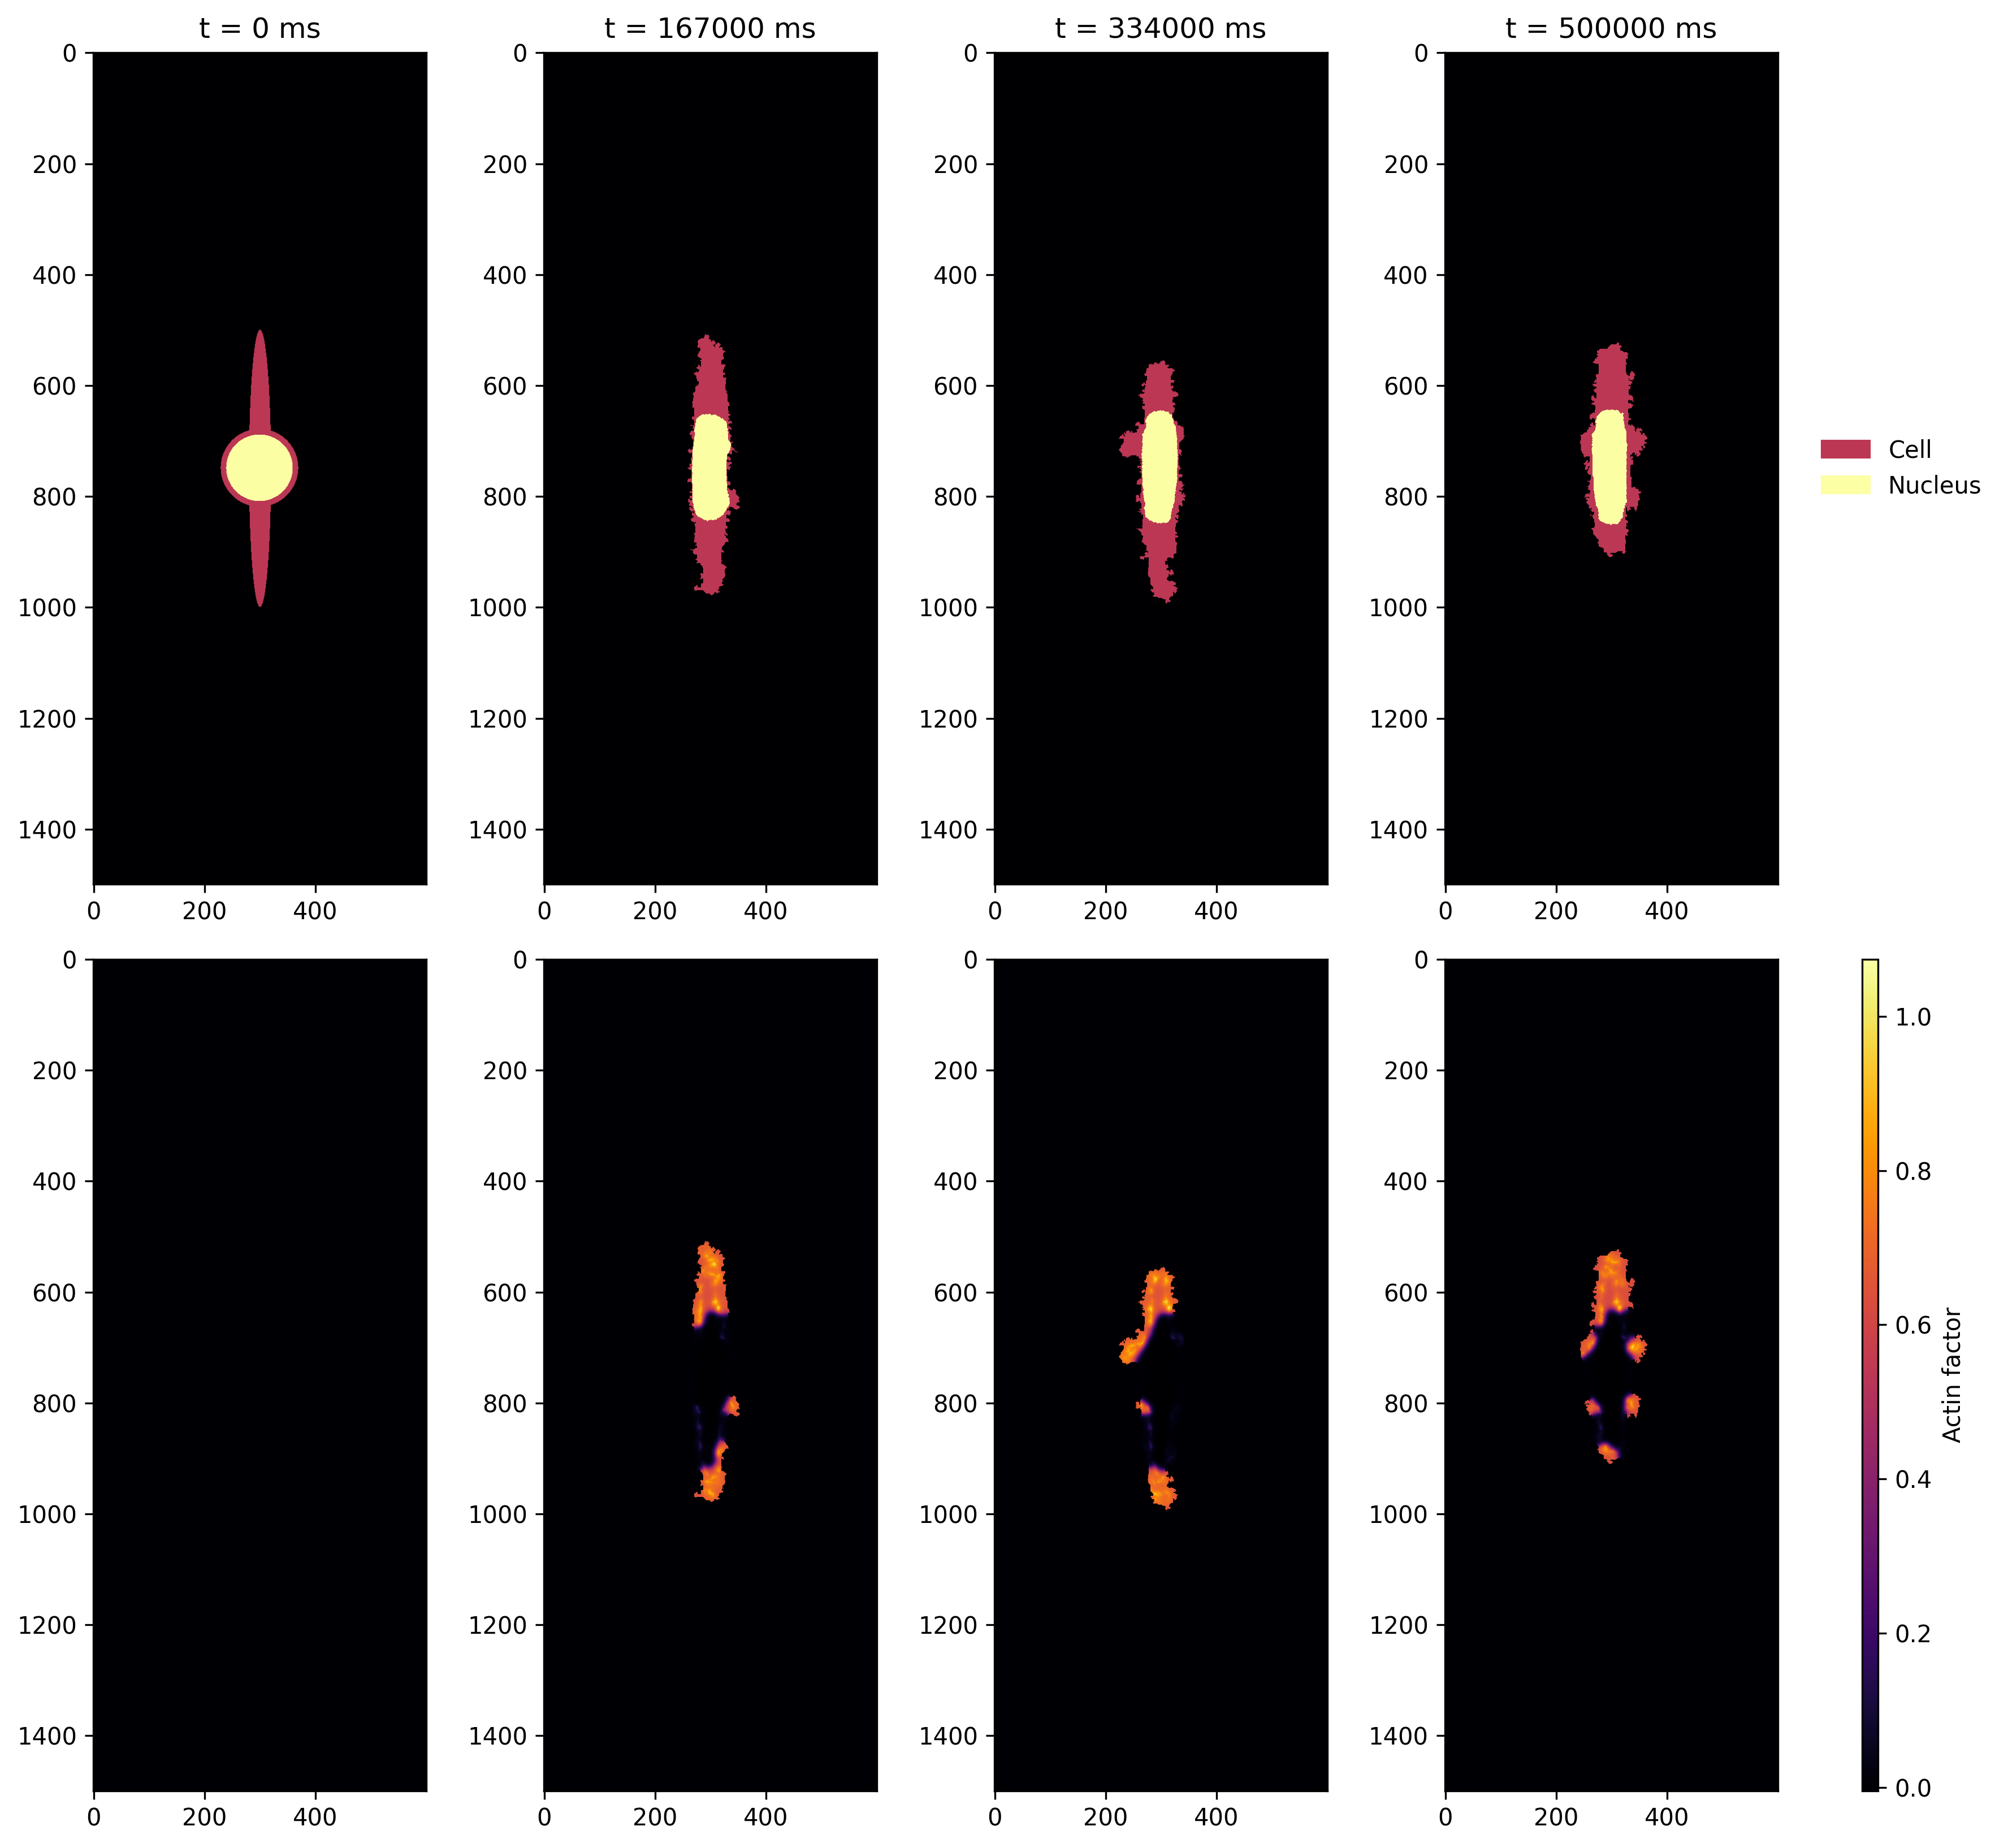
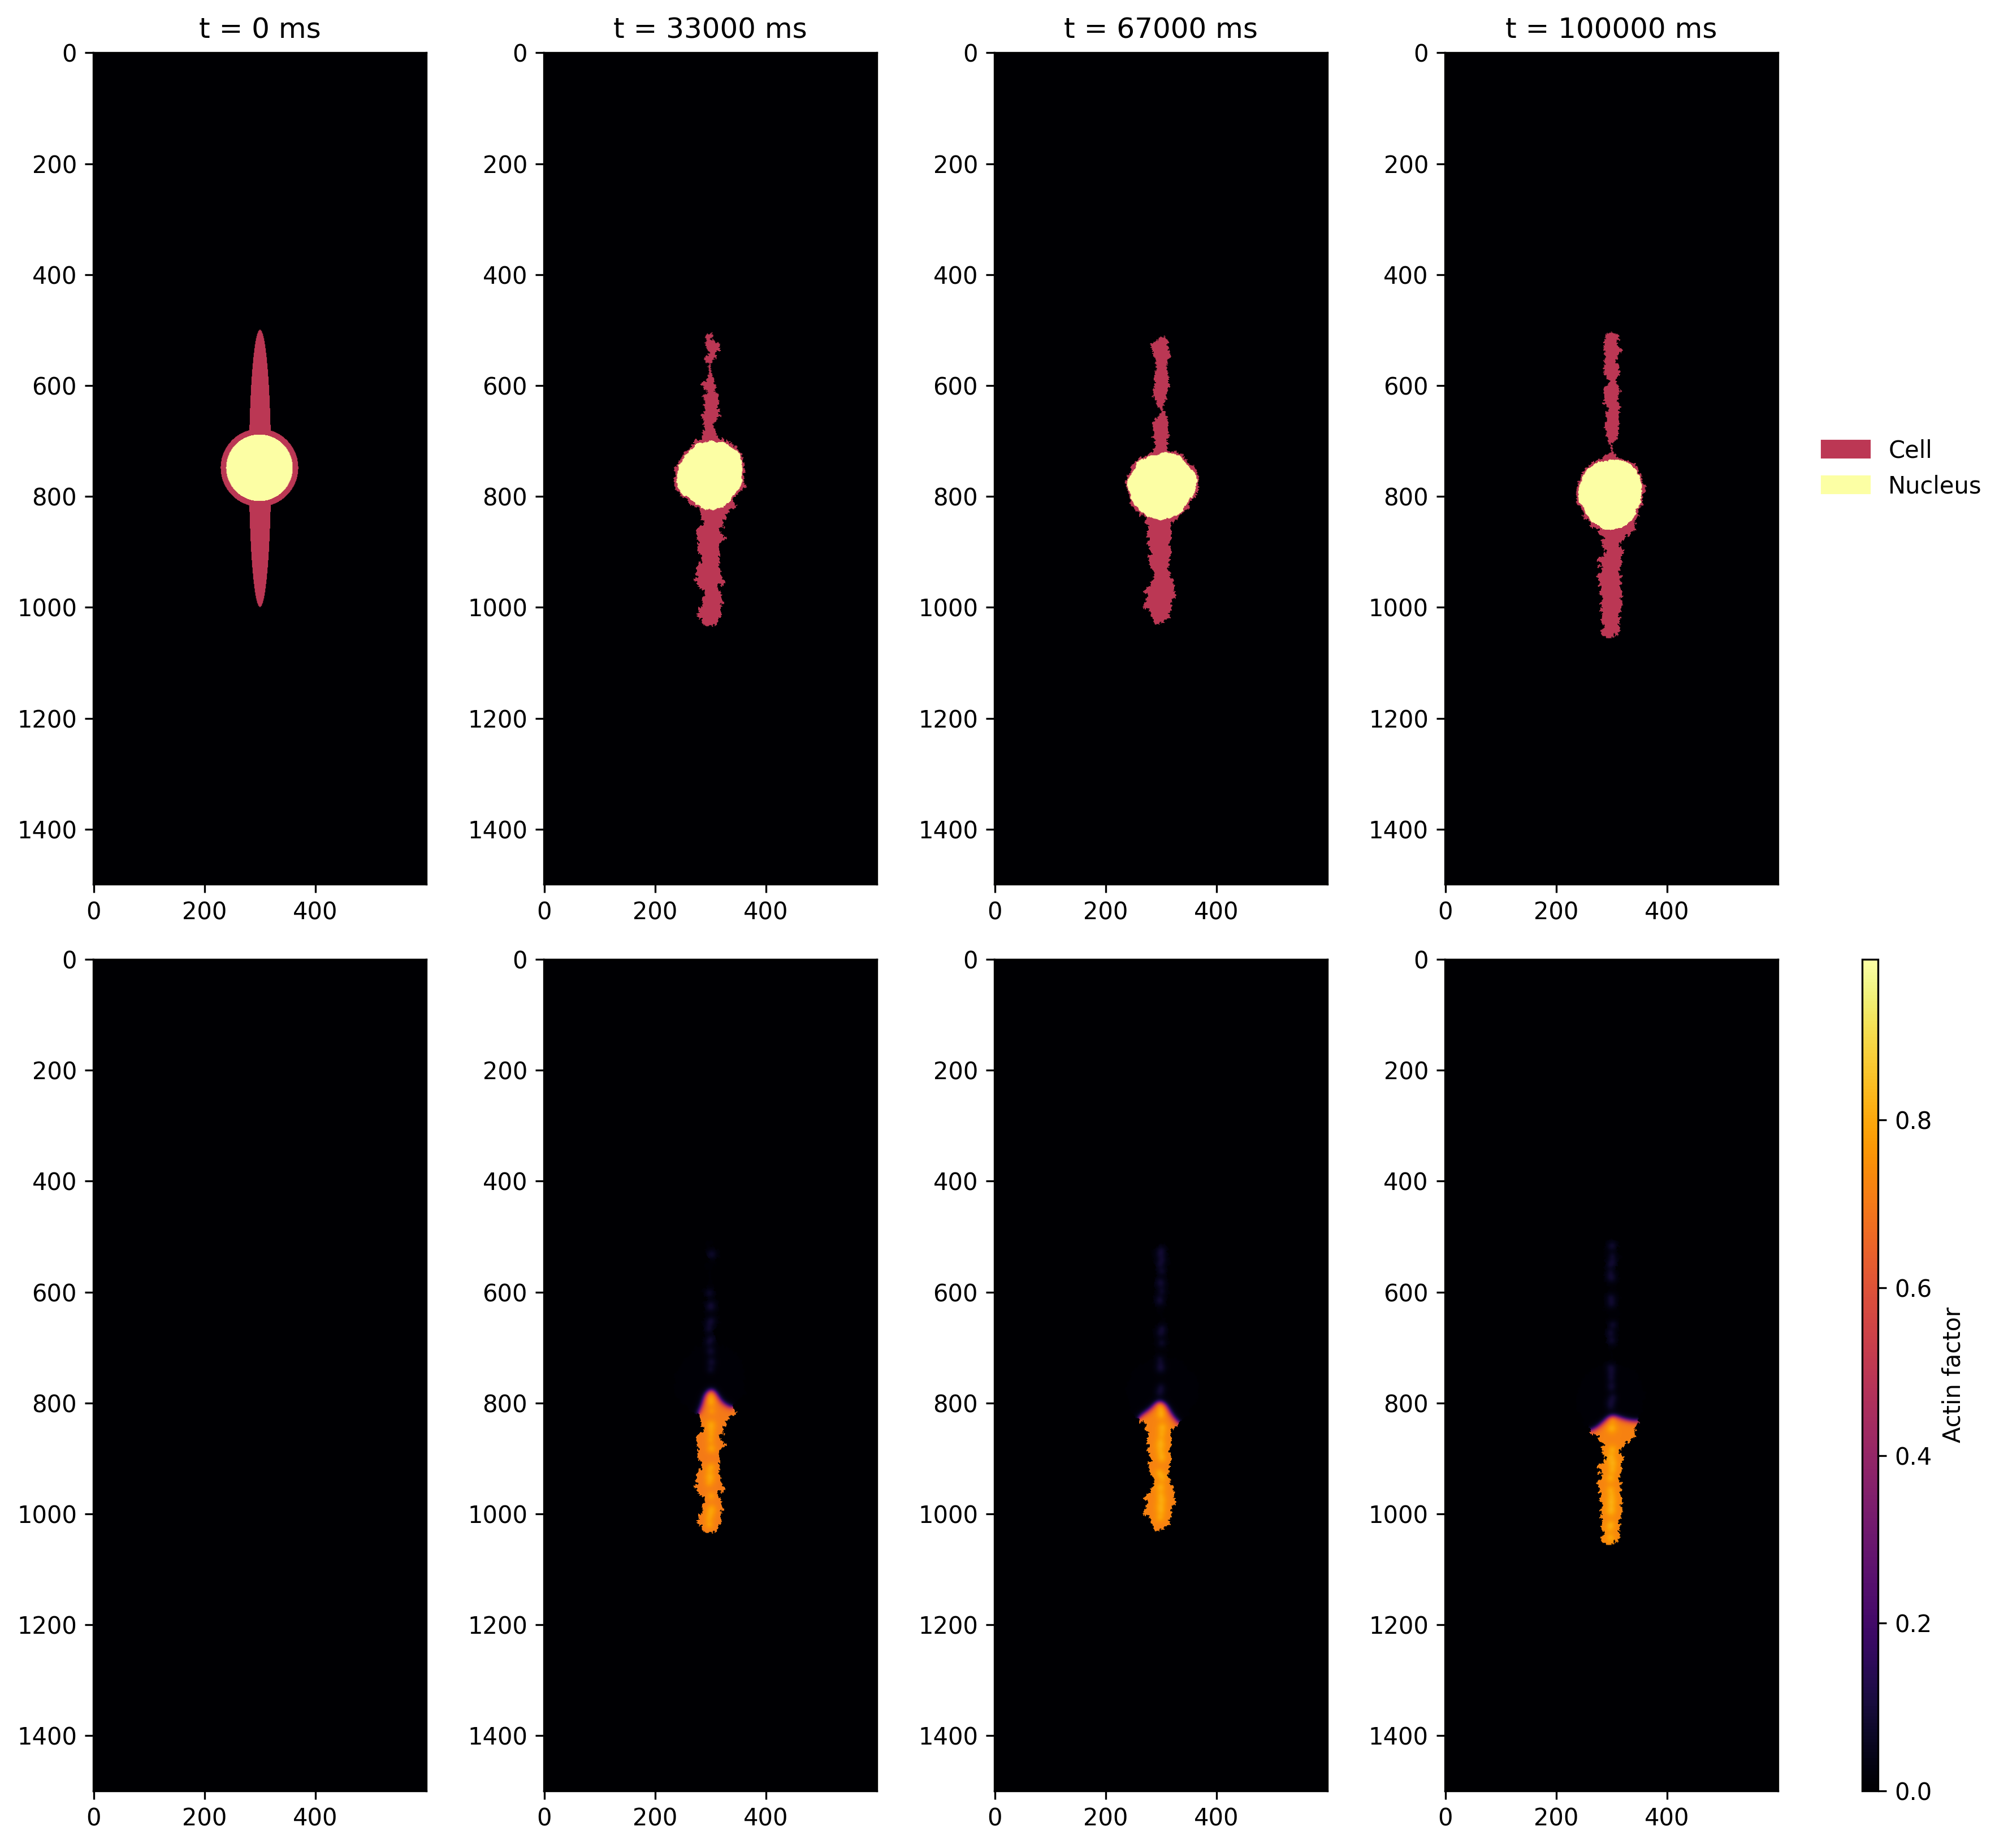
Fixed model protrusion, retraction, and nucleus issues, updated run

diff --git a/src/dynein_cell_model/dynein_cell_model.cpp b/src/dynein_cell_model/dynein_cell_model.cpp
@@ -6,7 +6,6 @@
 #include <deque>
 #include <fstream>
 #include <functional>
-#include <iostream>
 #include <map>
 #include <random>
 #include <stack>
@@ -18,7 +17,6 @@
 #include <highfive/H5DataSpace.hpp>
 #include <highfive/H5File.hpp>
 #include <highfive/H5PropertyList.hpp>
-#include <omp.h>
 #include <opencv2/core.hpp>
 #include <opencv2/imgcodecs.hpp>
 #include <utility>
@@ -34,8 +32,8 @@
 #ifdef LIB_DYNEIN_CELL_MODEL_DEBUG
 #include <test_utils/test_utils.hpp>
 
-static test_utils::DebugRand<double> drand;
-#define prob_dist(rng) drand()
+// static test_utils::DebugRand<double> drand;
+// #define prob_dist(rng) drand()
 
 inline constexpr bool DYNEIN_CELL_MODEL_DEBUG_CPP = true;
 #else
@@ -285,7 +283,7 @@ Mat_i matrix_from_mask(std::string filepath, cv::Vec3b color) {
     throw std::invalid_argument("Could not load the image at: " + filepath);
   }
 
-  Mat_i mat(image.rows, image.cols);
+  Mat_i mat = Mat_i::Zero(image.rows, image.cols);
 
   for (int c = 0; c < image.cols; c++) {
     for (int r = 0; r < image.rows; r++) {
@@ -497,6 +495,9 @@ CellModel::~CellModel() {
   finalize(*results_, next_index_, "AC");
   finalize(*results_, next_index_, "IC");
   finalize(*results_, next_index_, "adh");
+  finalize(*results_, next_index_, "env");
+  finalize(*results_, next_index_, "F");
+  finalize(*results_, next_index_, "k0_adh");
 }
 
 const CellModelConfig CellModel::get_config() {
@@ -641,6 +642,8 @@ void CellModel::save_state() {
   append_dataset(*results_, next_index_, "AC", AC_);
   append_dataset(*results_, next_index_, "IC", IC_);
   append_dataset(*results_, next_index_, "adh", adh_, true);
+  append_dataset(*results_, next_index_, "F", F_);
+  append_dataset(*results_, next_index_, "k0_adh", k0_adh_);
 }
 
 void CellModel::rearrange_adhesions(const bool bias, const bool rearrange_all) {
@@ -672,14 +675,16 @@ void CellModel::rearrange_adhesions(const bool bias, const bool rearrange_all) {
   std::vector<double> A_lin(frame_size); // linearized version of A within frame
   std::vector<std::pair<int, int>> flat_pos(frame_size);
   double A_sum = 0; // total sum of A in frame
-  for (int i = 0, r = frame_row_start_; r <= frame_row_end_; i++, r++) {
-    for (int j = 0, c = frame_col_start_; c <= frame_col_end_; j++, c++) {
-      if (env_.coeff(r, c) == 1 && cell_(r, c) == 1) {
-        // if is valid attachment point, it is a valid place for new adhesion
-        A_sum += A_(r, c);
+  if (bias) {
+    for (int i = 0, r = frame_row_start_; r <= frame_row_end_; i++, r++) {
+      for (int j = 0, c = frame_col_start_; c <= frame_col_end_; j++, c++) {
+        if (env_.coeff(r, c) == 1 && cell_(r, c) == 1) {
+          // if is valid attachment point, it is a valid place for new adhesion
+          A_sum += A_(r, c);
+        }
+        A_lin[i * cols + j] = A_sum;
+        flat_pos[i * cols + j] = {r, c};
       }
-      A_lin[i * cols + j] = A_sum;
-      flat_pos[i * cols + j] = {r, c};
     }
   }
 
@@ -1079,6 +1084,7 @@ void CellModel::retract_nuc_dep() {
 
 void CellModel::generate_dyn_field(const SpMat_i &cell_outline,
                                    const SpMat_i &nuc_outline, bool retract) {
+  dyn_f_.setZero();
   SpMat_i scaling{sim_rows_, sim_cols_};
 
   const int len = nuc_outline.nonZeros();
@@ -1113,7 +1119,7 @@ void CellModel::generate_dyn_field(const SpMat_i &cell_outline,
             continue;
           if (nuc_outline.coeff(i, j) == 1) {
             dyn_f_(i, j) += dist_f;
-            scaling.coeffRef(i, j)++;
+            scaling.coeffRef(i, j) += 1;
           }
         }
       }
@@ -1252,7 +1258,7 @@ void CellModel::retract() {
     auto &[r, c] = retract_coords[i];
 
     if (retract_conf_.count(encode_8(cell_, r, c)) ==
-        0) // not valid protrude configuration
+        0) // not valid retract configuration
       continue;
     if (nuc_(r, c) == 1) // can't retract nucleus
       continue;
@@ -1490,8 +1496,8 @@ void CellModel::correct_concentrations() {
   // Calculate amount of signal that needs to be distributed from all pixels
   const double A_dist = A_cor_sum_ / V_;
   const double I_dist = I_cor_sum_ / V_;
-  const double AC_dist = AC_cor_sum_ / (V_ - V0_nuc_);
-  const double IC_dist = IC_cor_sum_ / (V_ - V0_nuc_);
+  const double AC_dist = AC_cor_sum_ / (V_ - V_nuc_);
+  const double IC_dist = IC_cor_sum_ / (V_ - V_nuc_);
 
   // #pragma omp parallel for collapse(2)
   for (int j = frame_col_start_; j <= frame_col_end_; j++) {
@@ -1697,73 +1703,81 @@ void CellModel::update_dyn_nuc_field() {
 
 void CellModel::update_adhesion_field() {
   /**
-   * This function updates the adhesion field based on the positions of the
-   * adhesions. A Gaussian-smoothed adhesion field is first calculated for
-   * each of the adhesion points, and then the points for the rest of the
-   * pixels on the cell are calculated. The field is then normalized using IDW
-   * normalization method, which produces a distribution similar to the
-   * original code but runs faster. The values are then again normalized to be
-   * between 0 and 1 and inverted to act as a protrusion probability.
+   * Update adhesion field logic. Works by computing normalization variables at
+   * each adhesion, then applying a weighted Gaussian over every pixel from the
+   * adhesions. Then inverts and normalizes adh_f, and used to calculate k0_adh
+   * with IDW.
    */
 
+  // Precompute constants
   const double sigma_2 = adh_sigma_ * adh_sigma_;
   const double ampl = 1 / (2 * M_PI * sigma_2);
-  const double eps = 1e-10;
 
-  // Calculate for adhesions
+  // Position of adhesions as doubles
   Mat_d adh_pos_d = adh_pos_.cast<double>();
-  Vec_d norm_sq = adh_pos_d.colwise().squaredNorm();
-  Mat_d dot_prod = -2 * adh_pos_d.transpose() * adh_pos_d;
-  Mat_d dist2 = dot_prod;
-  dist2.colwise() += norm_sq;
-  dist2.rowwise() += norm_sq.transpose();
-  Mat_d f_ind = (-dist2.array() / (2.0 * sigma_2)).exp().matrix();
-  Arr_d adh_g = f_ind.rowwise().sum().array() * ampl;
 
-  // Calculate for non-adhesions
-  adh_f_.setZero();
-  // #pragma omp parallel for collapse(2)
+  // Precompute adh_g at adhesion positions for IDW calculation
+  Vec_d norm_sq_adh = adh_pos_d.colwise().squaredNorm();
+  Mat_d dist2_mat_adh =
+      ((-2 * adh_pos_d.transpose() * adh_pos_d).colwise() + norm_sq_adh)
+          .rowwise() +
+      norm_sq_adh.transpose();
+  Vec_d adh_g_at_adhesions =
+      ((-dist2_mat_adh.array() / (2.0 * sigma_2)).exp().rowwise().sum()) * ampl;
+
+  // Calculate adh_g at all frame pixels and find the maximum value for
+  // normalization
+  double max_adh_g = 0;
   for (int i = frame_row_start_; i <= frame_row_end_; i++) {
     for (int j = frame_col_start_; j <= frame_col_end_; j++) {
-      // Only need to calculate for pixels on outline or inner outline
-      // because those are the only pixels that can be protruded or retracted
-      if (outline_.coeff(i, j) == 0 && inner_outline_.coeff(i, j) == 0)
-        continue;
-      // Don't need to calculate for adhesions because values are fixed
       if (adh_.coeff(i, j) == 1) {
+        // At adhesion sites, set adh_g to max and k0_adh to k0
         k0_adh_(i, j) = k0_;
+        adh_f_(i, j) = 0; // adh_f = 0 at adhesions
         continue;
       }
 
-      // Get distances to adhesions
+      // Calculate distance squared to all adhesions
       Arr_d dr = adh_pos_.row(0).cast<double>().array() - i;
       Arr_d dc = adh_pos_.row(1).cast<double>().array() - j;
       Arr_d dist2 = dr.square() + dc.square();
+      dist2 = dist2.max(1e-12); // Avoid division by zero
 
-      Arr_d gaussian = (-dist2 / (2 * sigma_2)).exp();
-      double f = gaussian.sum();
-      double norm_numer = (adh_g / dist2).sum();
-      double norm_denom = (1.0 / dist2).sum();
+      // Calculate local Gaussian intensity
+      double local_gaussian = ampl * ((-dist2 / (2.0 * sigma_2)).exp().sum());
+      adh_f_(i, j) = local_gaussian;
 
-      double adh_g_i = ampl * f;
-      double adh_f_i = adh_g_i * norm_denom / norm_numer;
-      adh_f_(i, j) = adh_f_i;
-      k0_adh_(i, j) = (k0_ - k0_min_) * k0_scalar_ * adh_f_i + k0_min_;
+      // Track max for normalization
+      if (local_gaussian > max_adh_g) {
+        max_adh_g = local_gaussian;
+      }
     }
   }
 
-  // Invert for protrusion probability calculation
-  double max_f = adh_f_
-                     .block(frame_row_start_, frame_col_start_,
-                            frame_row_end_ - frame_row_start_ + 1,
-                            frame_col_end_ - frame_col_start_ + 1)
-                     .maxCoeff();
-  // #pragma omp parallel for collapse(2)
-  for (int i = frame_row_start_; i <= frame_row_end_; i++) {
-    for (int j = frame_col_start_; j <= frame_col_end_; j++) {
-      if (adh_.coeff(i, j) != 1 &&
-          (outline_.coeff(i, j) == 1 || inner_outline_.coeff(i, j) == 1)) {
-        adh_f_(i, j) = 1 - (adh_f_(i, j) / max_f);
+  // Normalize and invert to get adh_f, calculate k0_adh
+  if (max_adh_g > 0) {
+    for (int i = frame_row_start_; i <= frame_row_end_; i++) {
+      for (int j = frame_col_start_; j <= frame_col_end_; j++) {
+        if (adh_.coeff(i, j) == 1) {
+          // Already set above
+          continue;
+        }
+
+        double local_gaussian = adh_f_(i, j);
+        double adh_g_normalized = local_gaussian / max_adh_g;
+        adh_f_(i, j) = 1.0 - adh_g_normalized;
+
+        Arr_d dr = adh_pos_.row(0).cast<double>().array() - i;
+        Arr_d dc = adh_pos_.row(1).cast<double>().array() - j;
+        Arr_d dist2 = dr.square() + dc.square();
+        dist2 = dist2.max(1e-12);
+
+        double norm_numer = (adh_g_at_adhesions.array() / dist2).sum();
+        double norm_denom = (1.0 / dist2).sum();
+
+        k0_adh_(i, j) =
+            (k0_ - k0_min_) * (local_gaussian / norm_numer) * norm_denom +
+            k0_min_;
       }
     }
   }

diff --git a/examples/run_model_metrics.cpp b/examples/run_model_metrics.cpp
@@ -70,14 +70,42 @@ int main(int argc, char *argv[]) {
 
   // transform inputs
   IC_init *= 0.75;
+
+  // Find cell bounds to initialize AC polarization relative to cell position
+  int min_row = config.sim_rows_, max_row = 0;
+  for (int j = 0; j < config.sim_cols_; ++j) {
+    for (int i = 0; i < config.sim_rows_; ++i) {
+      if (cell_mask(i, j) == 1) {
+        min_row = std::min(min_row, i);
+        max_row = std::max(max_row, i);
+      }
+    }
+  }
+  int mid_row = (min_row + max_row) / 2;
+
+  // Initialize AC to 0.75 in the "front" half of the cell (higher row index)
   for (int j = 0; j < config.sim_cols_; ++j) {
     for (int i = 0; i < config.sim_rows_; ++i) {
       if (nucleus_mask(i, j) == 1) {
         AC_init(i, j) = 0;
         IC_init(i, j) = 0;
-      } else if (cell_mask(i, j) == 1 && i > 500) {
+      } else if (cell_mask(i, j) == 1 && i > mid_row) {
         AC_init(i, j) = 0.75;
         IC_init(i, j) = 0;
+      }
+    }
+  }
+
+  // DEBUG: Print initialization stats
+  double ac_sum = 0, ic_sum = 0;
+  int ac_count = 0, ic_count = 0;
+  for (int j = 0; j < config.sim_cols_; ++j) {
+    for (int i = 0; i < config.sim_rows_; ++i) {
+      if (cell_mask(i, j) == 1 && nucleus_mask(i, j) == 0) {
+        ac_sum += AC_init(i, j);
+        ac_count++;
+        ic_sum += IC_init(i, j);
+        ic_count++;
       }
     }
   }

diff --git a/src/dynein_cell_model/include/dynein_cell_model/dynein_cell_model.hpp b/src/dynein_cell_model/include/dynein_cell_model/dynein_cell_model.hpp
@@ -453,7 +453,7 @@ private:
   int sim_cols_; ///< Total number of columns for the simualation
 
   // Simulation parameters
-  int t_;             ///< current time step
+  int t_ = 0;         ///< current time step
   int adh_t_;         ///< number of time steps per adhesion rearrangement
   int fr_t_;          ///< number of time steps per frame update
   int save_t_;        ///< number of time steps per save

diff --git a/README.md b/README.md
@@ -2,6 +2,19 @@
 
 ### Local
 
+NOTE: Need to figure out better compilation steps in the future
+
+```bash
+export CXXFLAGS="-O3 -march=native -ffast-math -DEIGEN_NO_DEBUG -DNDEBUG"
+cmake \
+    -DCMAKE_POLICY_VERSION_MINIMUM=3.5 \
+    -DCMAKE_BUILD_TYPE=Release \
+    -DHDF5_ROOT=/opt/homebrew/opt/hdf5 \
+    -DOpenMP_libomp_LIBRARY=/opt/homebrew/opt/libomp/lib/libomp.dylib \
+    ..
+cmake --build .
+```
+
 ```bash
 cmake \
     -DCMAKE_BUILD_TYPE=Debug \